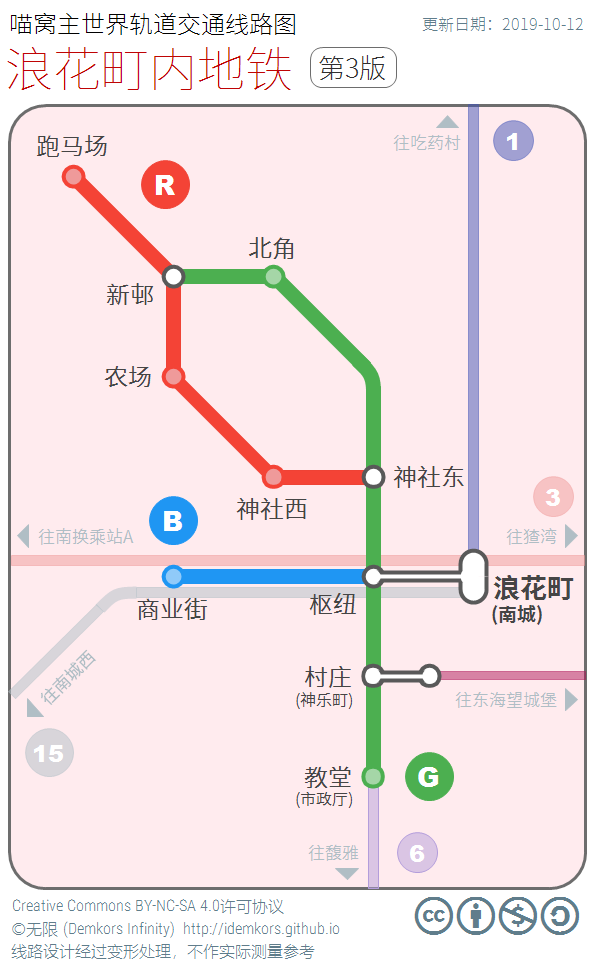
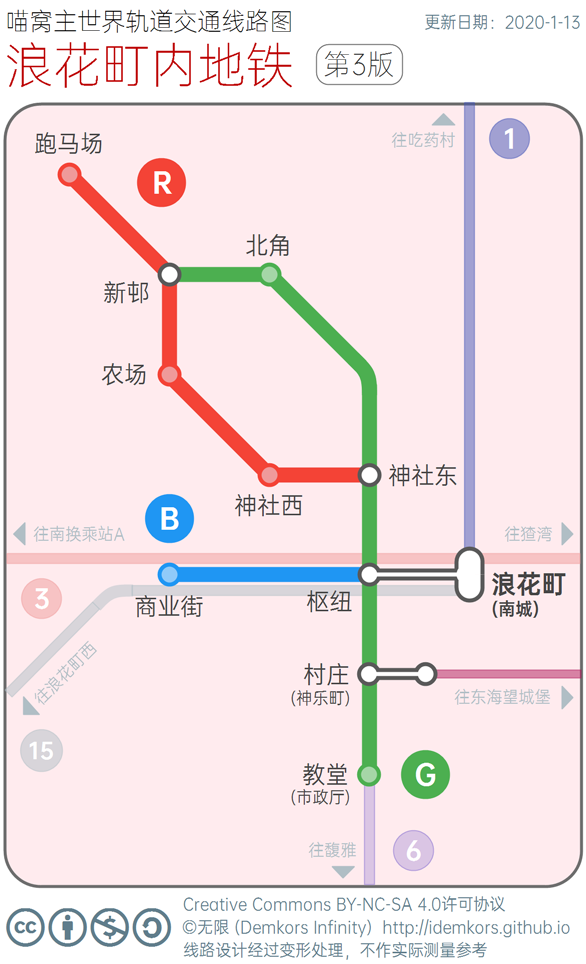
UPDATE Railway maps, Worlds, Realms, etc: update iDemkors-featured rail maps; update cautions of Bee farms in world_the_end; update description of 南沙港, 彼岸的鸟笼; update history of Nether-traffic; record event in Changelog

diff --git a/space/map-navi/railway-universal-iDemkors.md b/space/map-navi/railway-universal-iDemkors.md
@@ -2,15 +2,15 @@
 
 本页面主要展示由*无限 `iDemkors`* 绘制的 **《主世界轨道交通线路图》** **《下界交通网线路图》**，以及**城镇（村落）内修建的地铁线路图**。其中：
 
-- **《主世界》**包括公认的“公共铁路网”（含“一级铁路”“二级铁路”），以及不属于“公共铁路网”、但与其**直接**接驳的线路。
-- **《下界》**包括**由樱华町（出征楼）传送门附近出发**，在下界Y=5~9处铺设的交通网（含铁路线及冰、铁混合线）。
-- **《新北市地铁》**包括新北市当前的4条地铁线、1条有轨电车线，以及过境的“公共”铁路线。
-- **《浪花町内地铁》**包括浪花町当前的3条地铁线，【村庄】站至【东海望城堡】的直达线，以及过境、接驳的“公共”铁路线。
+- [《主世界》](#主世界线路图)包括公认的“公共铁路网”（含“一级铁路”“二级铁路”），以及不属于“公共铁路网”、但与其**直接**接驳的线路。
+- [《下界》](#下界交通网线路图)包括**由樱华町（出征楼）传送门附近出发**，在下界Y=7处铺设的交通网（含铁路线及冰、铁混合线）。
+- [《新北市地铁》](#新北市地铁线路图)包括新北市当前的4条地铁线、1条有轨电车线，以及过境的“公共”铁路线。
+- [《浪花町内地铁》](#浪花町内地铁线路图)包括浪花町当前的3条地铁线，「村庄」站至「东海望城堡」的直达线，以及过境、接驳的“公共”铁路线。
 
 ## ⚠阅览前请注意
 
 1. **图中一切线路、站点的存在及名称，为基于“现状”判断而得，不代表管理组观点及喵窝全体共识，仅供参考。**
-2. 部分站名由于实际上过长，不便记忆，而被改写。如：“南方一、二级换乘站A”→【南换乘站A】。  
+2. 部分站名由于实际上过长，不便记忆，而被改写。如：「南方一、二级换乘站A」→「南换乘站A」。  
    可以和[“二级铁路”页面](space/map-navi/railway-overworld-dmql)所示线路图对照，以获知实际站名。（该图为2016年下半年内更新，未包含新建站点。）
 3. 《主世界》不区分“一级”、“二级”和其他铁路。
 4. 线路之编号、配色仅仅起**装饰性**作用。引用时请慎重。
@@ -20,7 +20,7 @@
 
 1. 站点以线路上的**圆圈**表示。其中：  
    白底灰边者为**换乘站**（如各个主城）；  
-   特别地，由一根“细棍子”连通两个换乘站，表示 **“跨平台换乘”**（如东城）；  
+   特别地，由一根“细棍子”连通两个换乘站，表示 **“跨平台换乘”**（如阿库亚斯）；  
    其余为**普通站点。**
 2. 浪花町内地铁的站牌，标示大多为英文，作为文化遗产被保留。乘坐时，请自行判断欲经过的站台数量。
 3. 某些站点名称未确定，给予了暂定名。本图尽可能尊重当地住户、建设者之意见，欢迎提供更合适的站名。
@@ -31,9 +31,9 @@
 
 ![主世界轨道交通](../../assets/images/map-navi/map-Overworld-Rail-iDemkors.png)
 
-?> :information_source: 【阿库亚斯】三个站台分别称  
-**“阿库亚斯站”“阿库亚斯北站”“阿库亚斯南站”**，  
-分别接入②号线、③号线（往东北总站）、③号线（往东南总站）。
+?> :information_source: 「阿库亚斯」三个站台分别称  
+**「阿库亚斯站」「阿库亚斯北站」以及「阿库亚斯南站」**，  
+分别接入②号线、③号线（北向）、③号线（南向）。
 
 - - -
 

diff --git a/nyaa/projects/nether-traffic.md b/nyaa/projects/nether-traffic.md
@@ -4,7 +4,7 @@
 由于建设活动所涉Y坐标最低至5，交通网也简称『Y5NS（Y=5 Nether Subway）』。
 
 其起初由以*霞羽 `Akyuu`* 为首的玩家团队规划、铺设，后由*无限 `iDemkors`* 负责维护与扩展。  
-截至目前，下界交通网已联络15座城镇及村落，里程达4.4公里以上。
+截至目前，下界交通网已联络16座聚落，里程达4.5公里以上。
 
 大部分路段采用冰、铁混合结构，同时支持行车、行船；行船时速度极快，一分钟内可跨越相当于主世界万米的距离。冰道里程亦是喵窝之最。
 
@@ -17,7 +17,7 @@
 
 ### 建设标准
 
-想要拓展交通网版图？但又担心自己造得难看、不人性化，难以融入现有路网？请参见[建设标准与规范](space/building/railway-construction-standard)。
+想要拓展交通网版图？但又担心自己造得难看、不人性化，难以融入现有路网？请参见[建设标准与规范](space/building/railway-construction-standard)。有不明之处的，可向*无限* 求助。
 
 ### 历史
 
@@ -33,3 +33,6 @@
 
 - 2019年1月25日，*霞羽* 宣布[退出一切维护工作](https://bbs.nyaa.cat/d/1362-minecraft-1-13-2-aquatic-update/17)。- 当年4月11日至5月18日，*无限* 主持[冰道翻修工作](https://bbs.nyaa.cat/d/1395)，将浮冰更换为性能更好的蓝冰。  
 - 8月21日至9月17日，*无限* 主持[延伸交通网至科技特区](https://bbs.nyaa.cat/d/1457)的工程。
+
+
+- 2020年1月，*无限* 与*花名 `AstroDreamer`* 主持新建月望谷——南沙港路段。

diff --git a/nyaa/realms.md b/nyaa/realms.md
@@ -147,7 +147,7 @@
 * 简介：
   * 一期为砂石搭起的滨海要塞，扼守海峡，与沙漠融为一体。与二期隔海相望。
   * 二期是偏古代风格的城下町，由南方堡垒发展而来，同时大型港口的建设正在筹备中。城堡后拥有飞艇塔，海中也拥有一艘旧式明轮炮舰。
-  * 目前南沙港二期已完工，拥有多达 50 幢的成品住宅可供购买。对于新加入的玩家，可以提供一定的优惠。
+  * 目前南沙港二期已完工，拥有多达 50 幢的成品住宅可供购买。对于新加入的玩家，可以提供一定的优惠。迁入前请先阅读 [购房须知](https://bbs.nyaa.cat/d/1355-2018-10-11/6)。
   * 在二期的城堡内部，设有小部分商铺，欢迎各大商家前往入驻。在城堡内也有传送站可使用。
   * 南沙港二期铁路站[正在建设中](https://bbs.nyaa.cat/d/1483 "主世界「科技城专线」工程规划、建设进度及合伙邀请")。
   * 南沙港 QQ 群 `575142449`
@@ -329,6 +329,7 @@
 * 范围：（-600，-5150）至（-1300，-5600）
 * 笼主：*i7 `elerye`*
 * 简介：一个鸽子窝。
+* QQ群 `895363533`
 
 - - -
 ## 景观区与古村落

diff --git a/changelog.md b/changelog.md
@@ -20,6 +20,10 @@
 - *凤凰卷* [建议各聚落成立居委会](https://bbs.nyaa.cat/d/1497)，以便内部沟通、接纳新进居民。
 - 当日有13个聚落响应倡议，成立居委会12个。
 
+### 2019-12 【随机宝箱】
+- 现在「万华街」多处角落放置了固定宝箱，每隔一定时间刷新战利品。已知其内容选自普通**地牢**的战利品表。
+- 现在 EpicWorld 维度的海边藏宝箱，**清空后**隔一定时间刷新战利品。
+
 ### 2019-10-？【幻翼临时禁制令 & 细微变动】
 - 通过设置于大神殿某处的命令方块，一切幻翼生成后即消灭。
   + 据悉，其为*凤凰卷* 投放；后者还透露，其未指定作用范围，且所在区块强制加载——也即**整个主世界**皆实时禁止幻翼存在。*凤凰卷* 指出，“等装备的NPC普及了就关掉了”。
